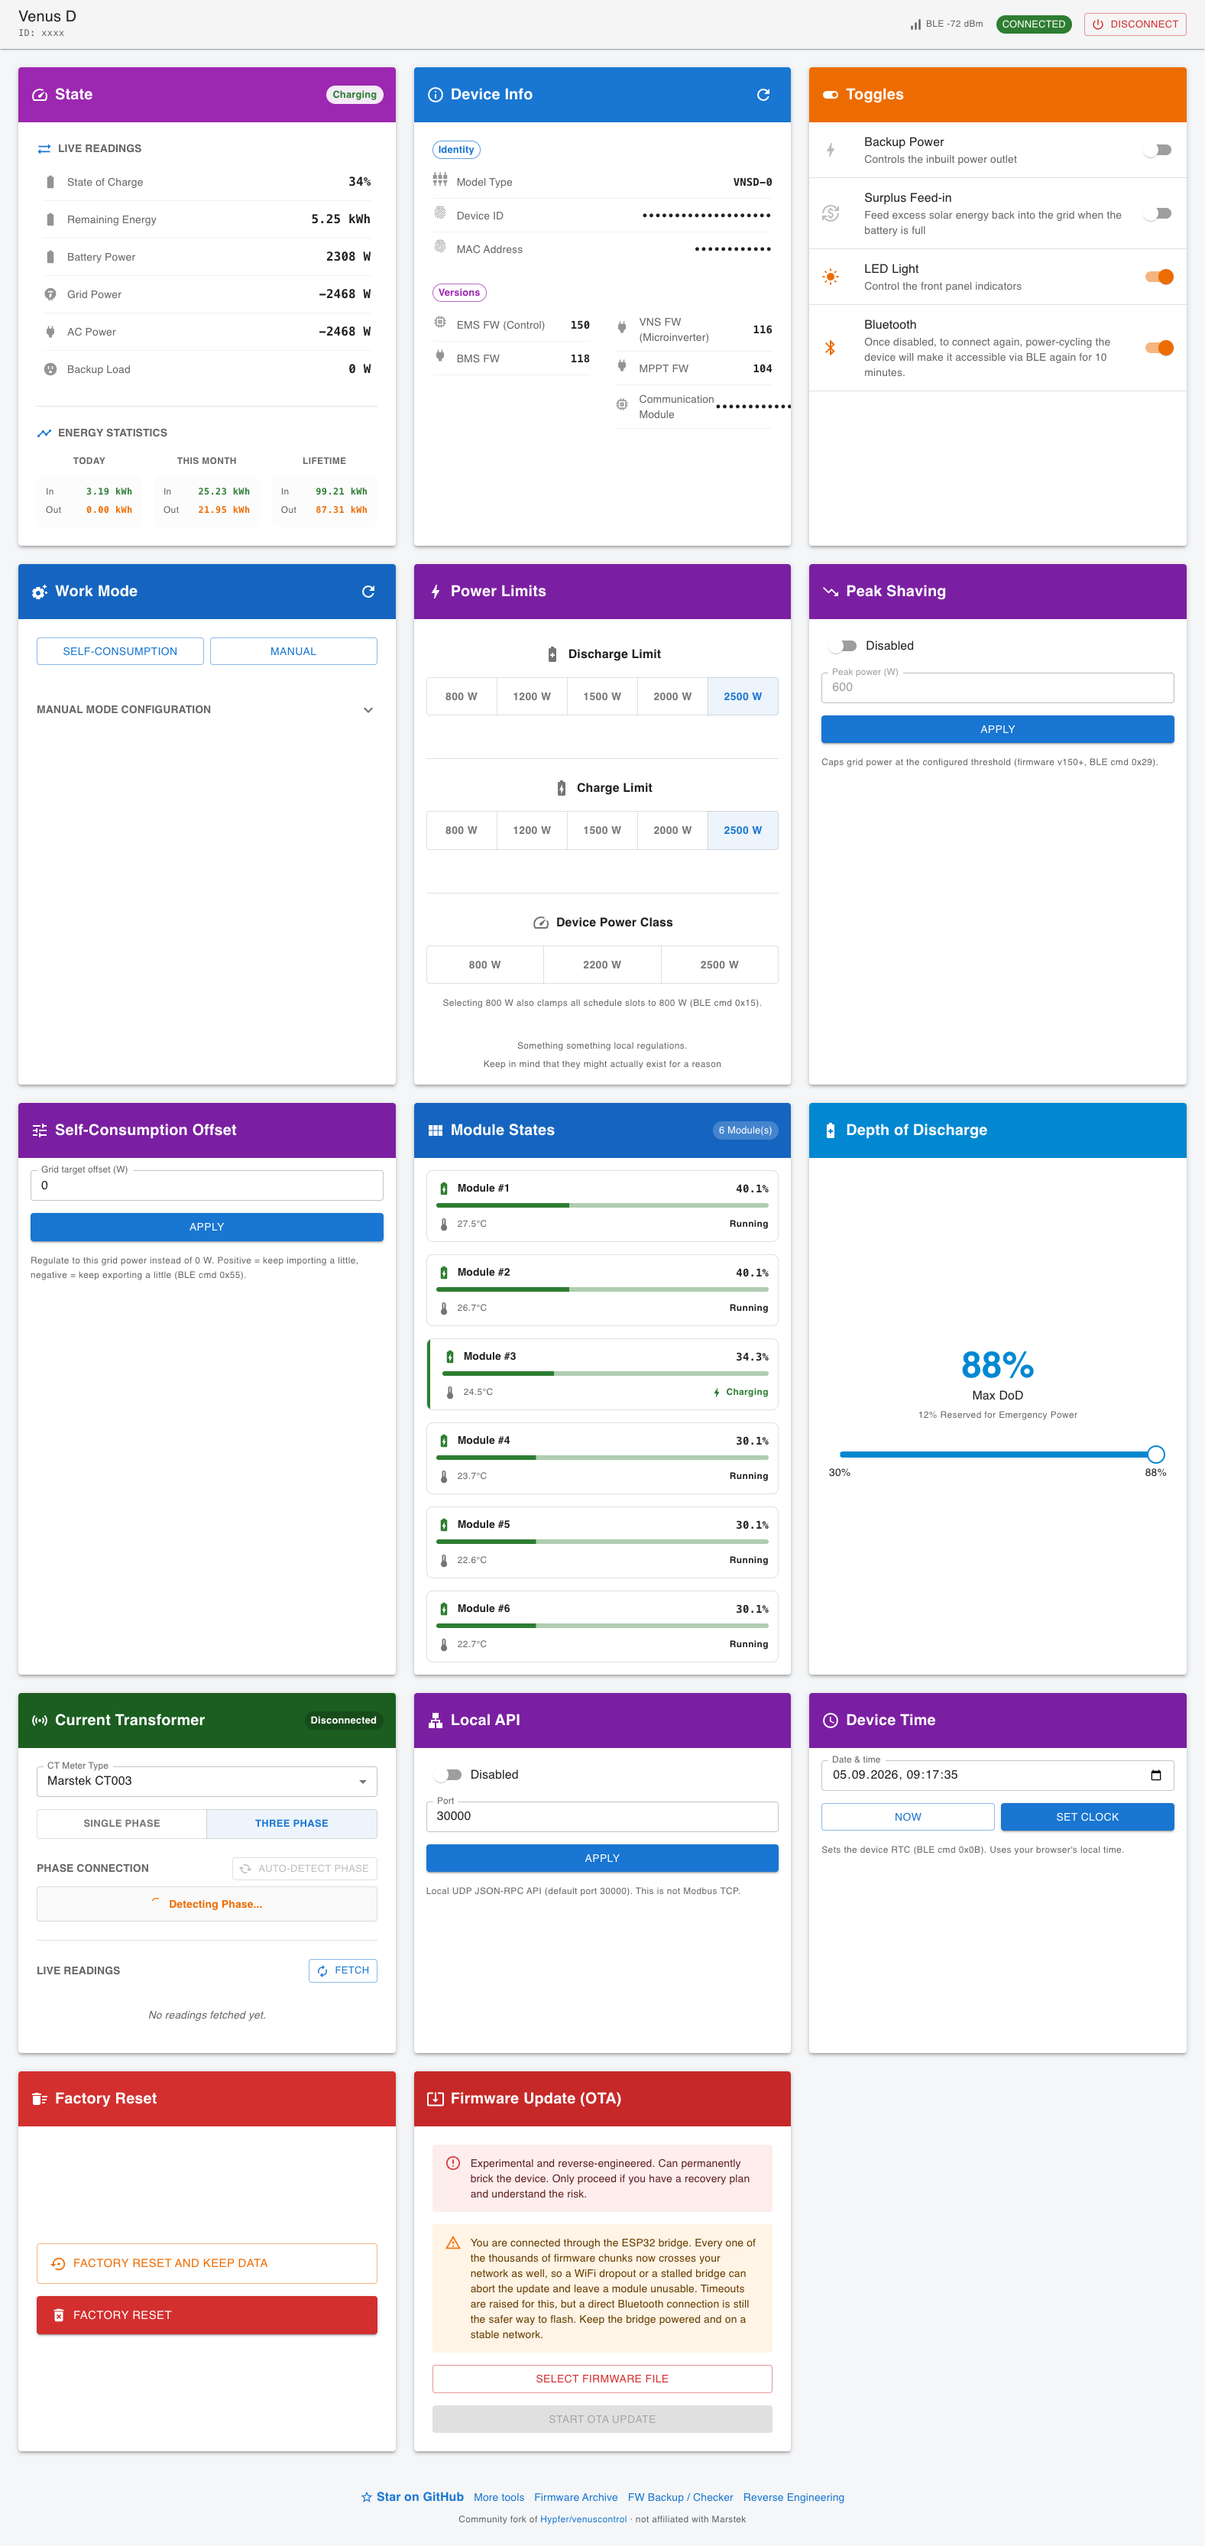
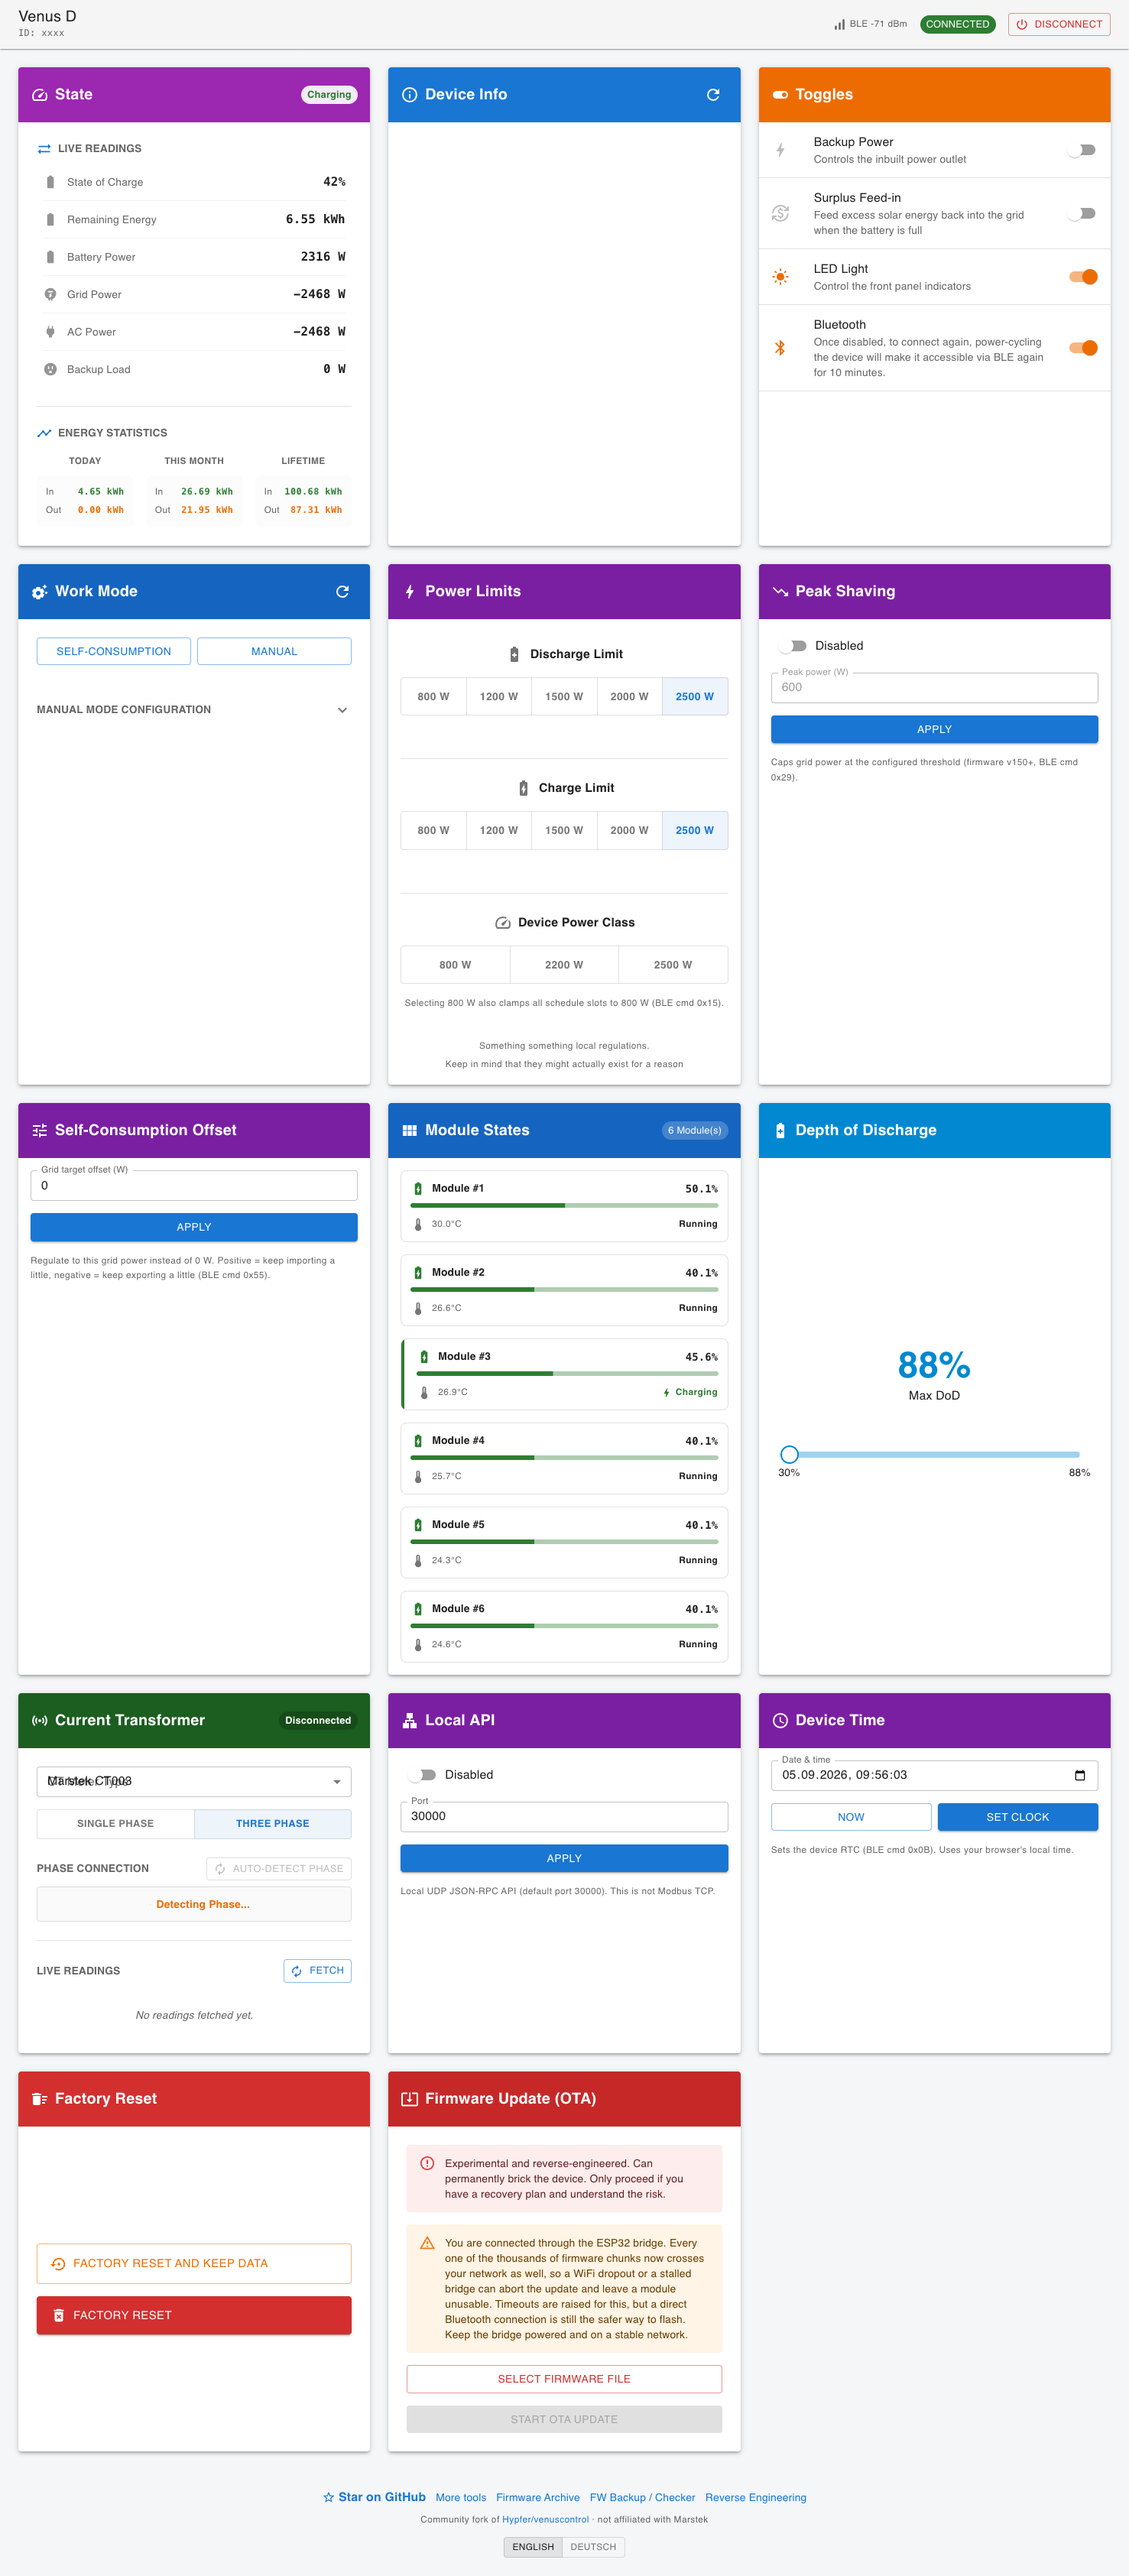
Show the interface in both languages, and say that it has both

diff --git a/README.de.md b/README.de.md
@@ -73,6 +73,7 @@ braucht es drei Dinge, und keines davon ist ein Marstek-Dienst:
 - 🛡 **Modellerkennung für Firmware-Dateien** — warnt, bevor das Abbild eines anderen Modells
   geflasht wird, anhand des in jedem Abbild eingebetteten `VNSA`/`VNSD`/`VNSE`-Tags; gegen alle 27
   Venus-Abbilder im Firmware-Archiv geprüft
+- 🌍 **Englisch und Deutsch** — die komplette Oberfläche, richtet sich nach dem Browser und ist jederzeit umschaltbar
 - ⚡ **Geräteleistungsklasse** wählbar (800 / 2200 / 2500 W)
 - 📉 **Peak Shaving** — Netzbezug auf einen einstellbaren Schwellwert begrenzen
 - 🎚 **Offset für den Eigenverbrauch** — den Regler auf eine andere Netzleistung als 0 W ziehen
@@ -103,14 +104,14 @@ gemeldet statt geflasht.
 ## Die App
 
 <div align="center">
-<img alt="Marstek BLE Control auf einem Smartphone: Ladezustand, Batterie- und Netzleistung, Energiestatistik und die Gerätedetails" src="docs/assets/dashboard-mobile.png" height="640">
+<img alt="Marstek BLE Control auf einem Smartphone: Ladezustand, Batterie- und Netzleistung, Energiestatistik und die Gerätedetails" src="docs/assets/dashboard-mobile-de.png" height="640">
 </div>
 
 <details>
 <summary>The whole panel on a desktop</summary>
 
 <div align="center">
-<img alt="Das vollständige Bedienfeld: Zustand, Geräteinfo, Schalter, Work Mode, Leistungsgrenzen, Peak Shaving, Modulzustände, Entladetiefe, Stromwandler, lokale API, Gerätezeit, Werksreset und OTA" src="docs/assets/dashboard-desktop.png" width="100%">
+<img alt="Das vollständige Bedienfeld: Zustand, Geräteinfo, Schalter, Work Mode, Leistungsgrenzen, Peak Shaving, Modulzustände, Entladetiefe, Stromwandler, lokale API, Gerätezeit, Werksreset und OTA" src="docs/assets/dashboard-desktop-de.png" width="100%">
 </div>
 
 </details>

diff --git a/README.md b/README.md
@@ -69,6 +69,7 @@ things, and none of them is a Marstek service:
 - 🛡 **Model detection for firmware files** — warns before flashing another model's image, based on
   the `VNSA`/`VNSD`/`VNSE` tag embedded in every image; verified against all 27 Venus images in the
   firmware archive
+- 🌍 **English and German** — the whole interface, picked from your browser and switchable at any time
 - ⚡ **Device Power Class** selection (800 / 2200 / 2500 W)
 - 📉 **Peak Shaving** — cap grid draw at a configurable threshold
 - 🎚 **Self-Consumption Power Offset** — bias the controller to target a grid power other than 0 W
